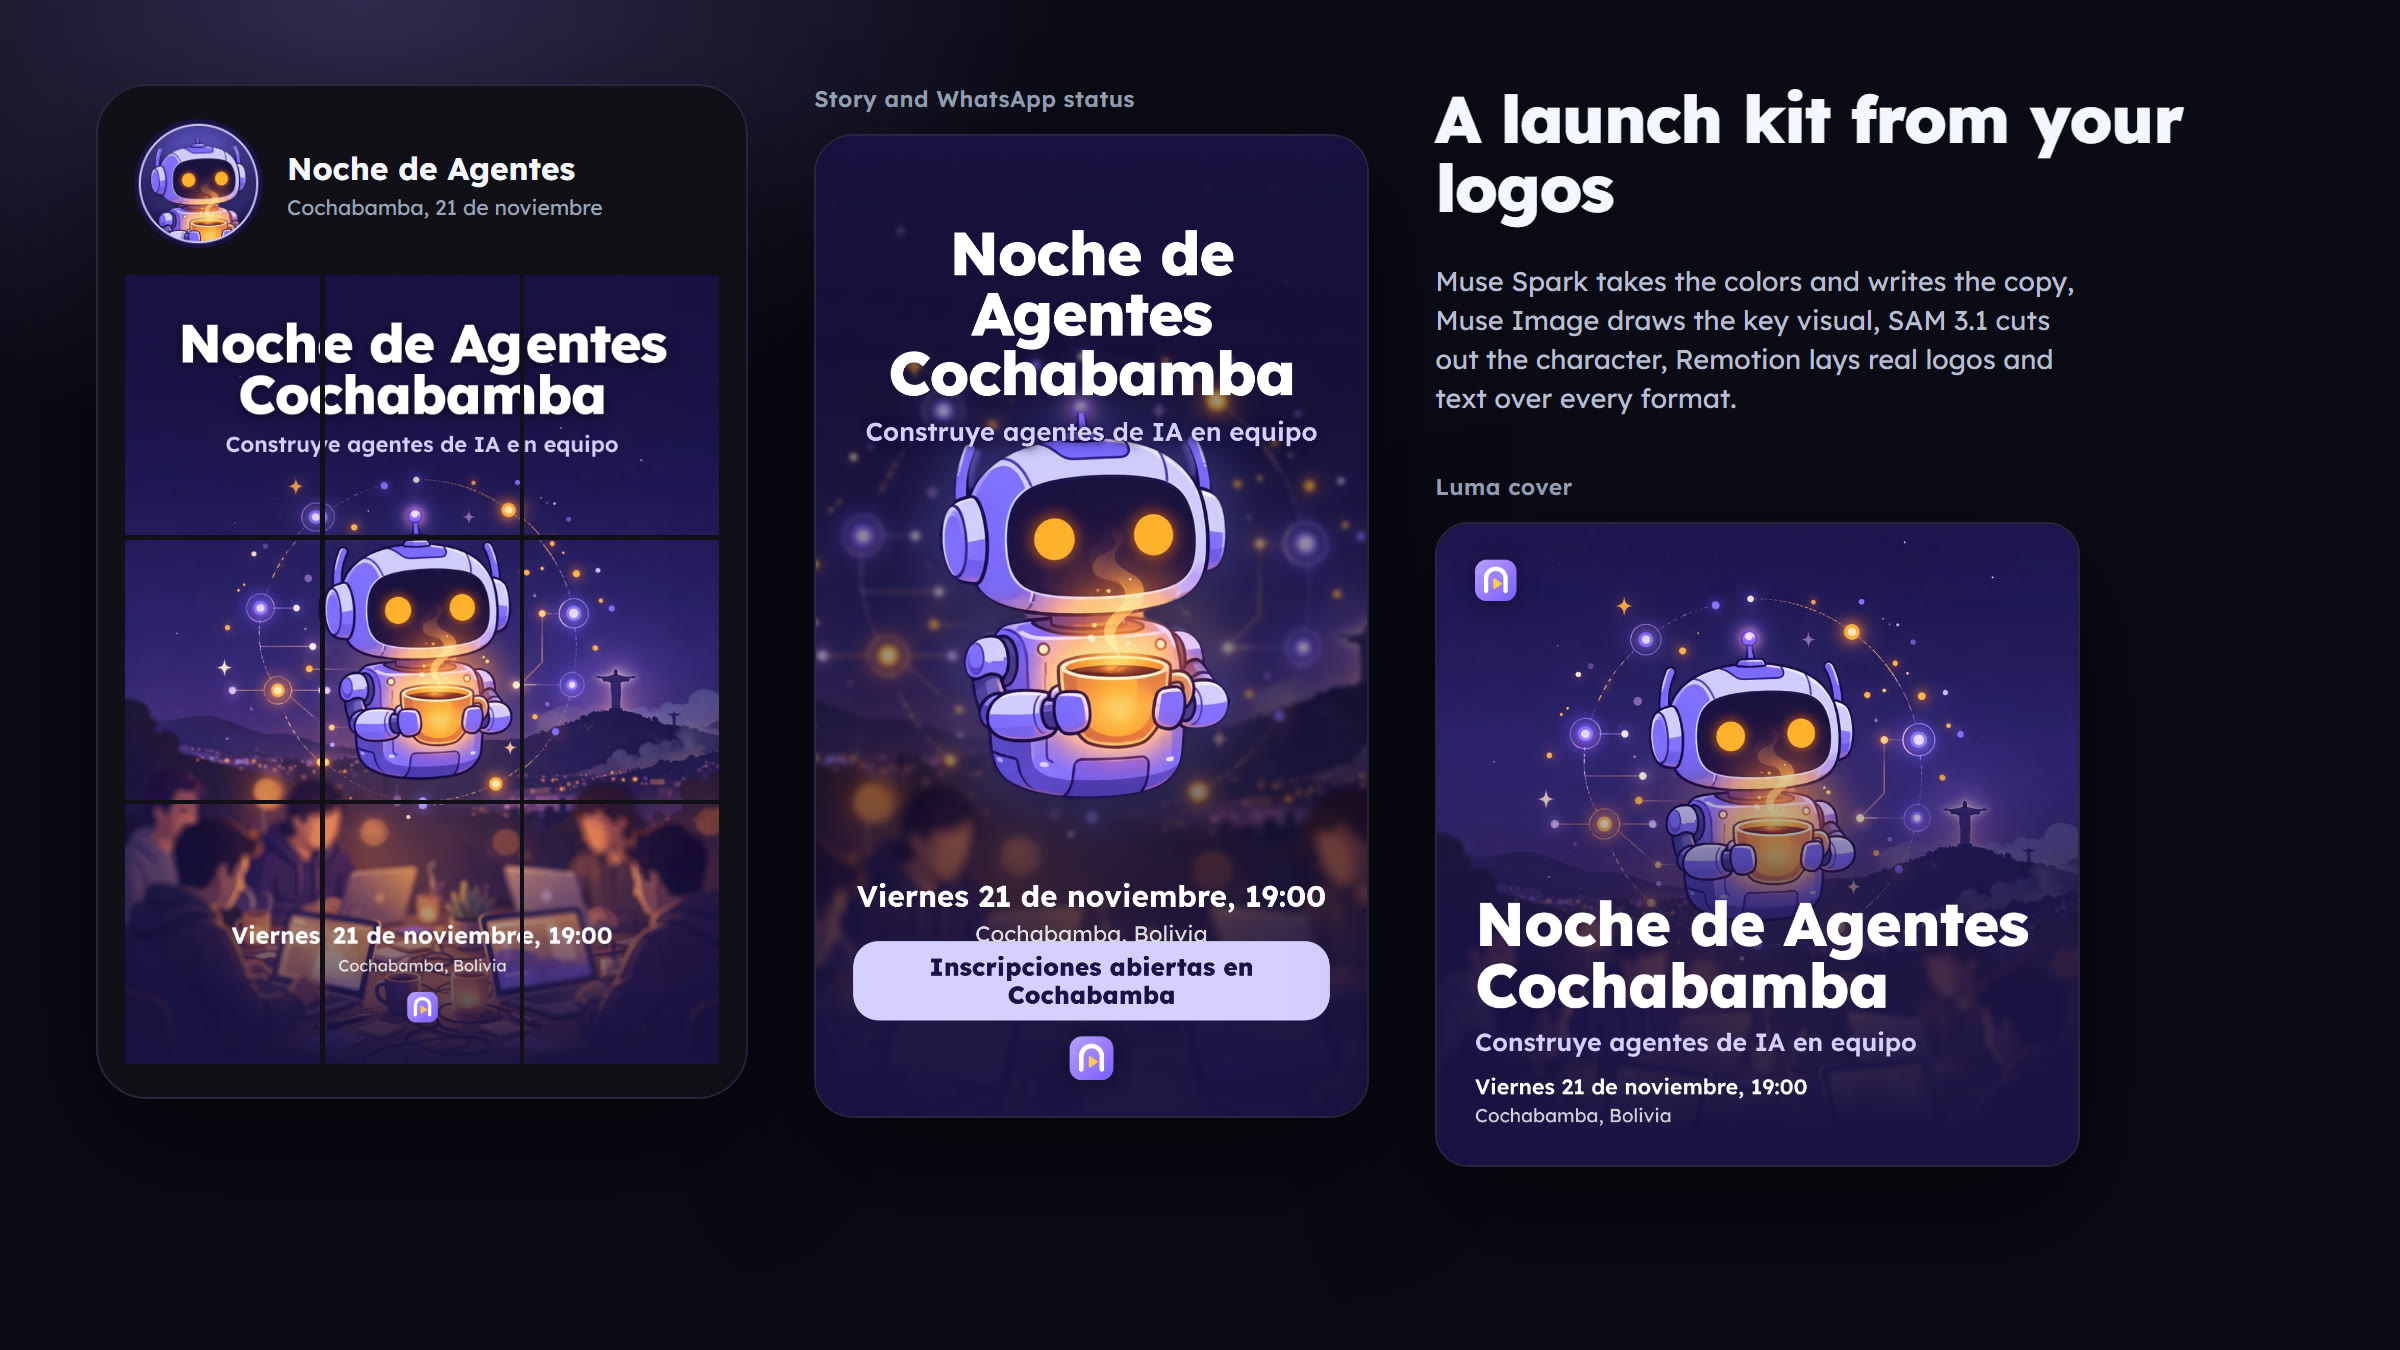
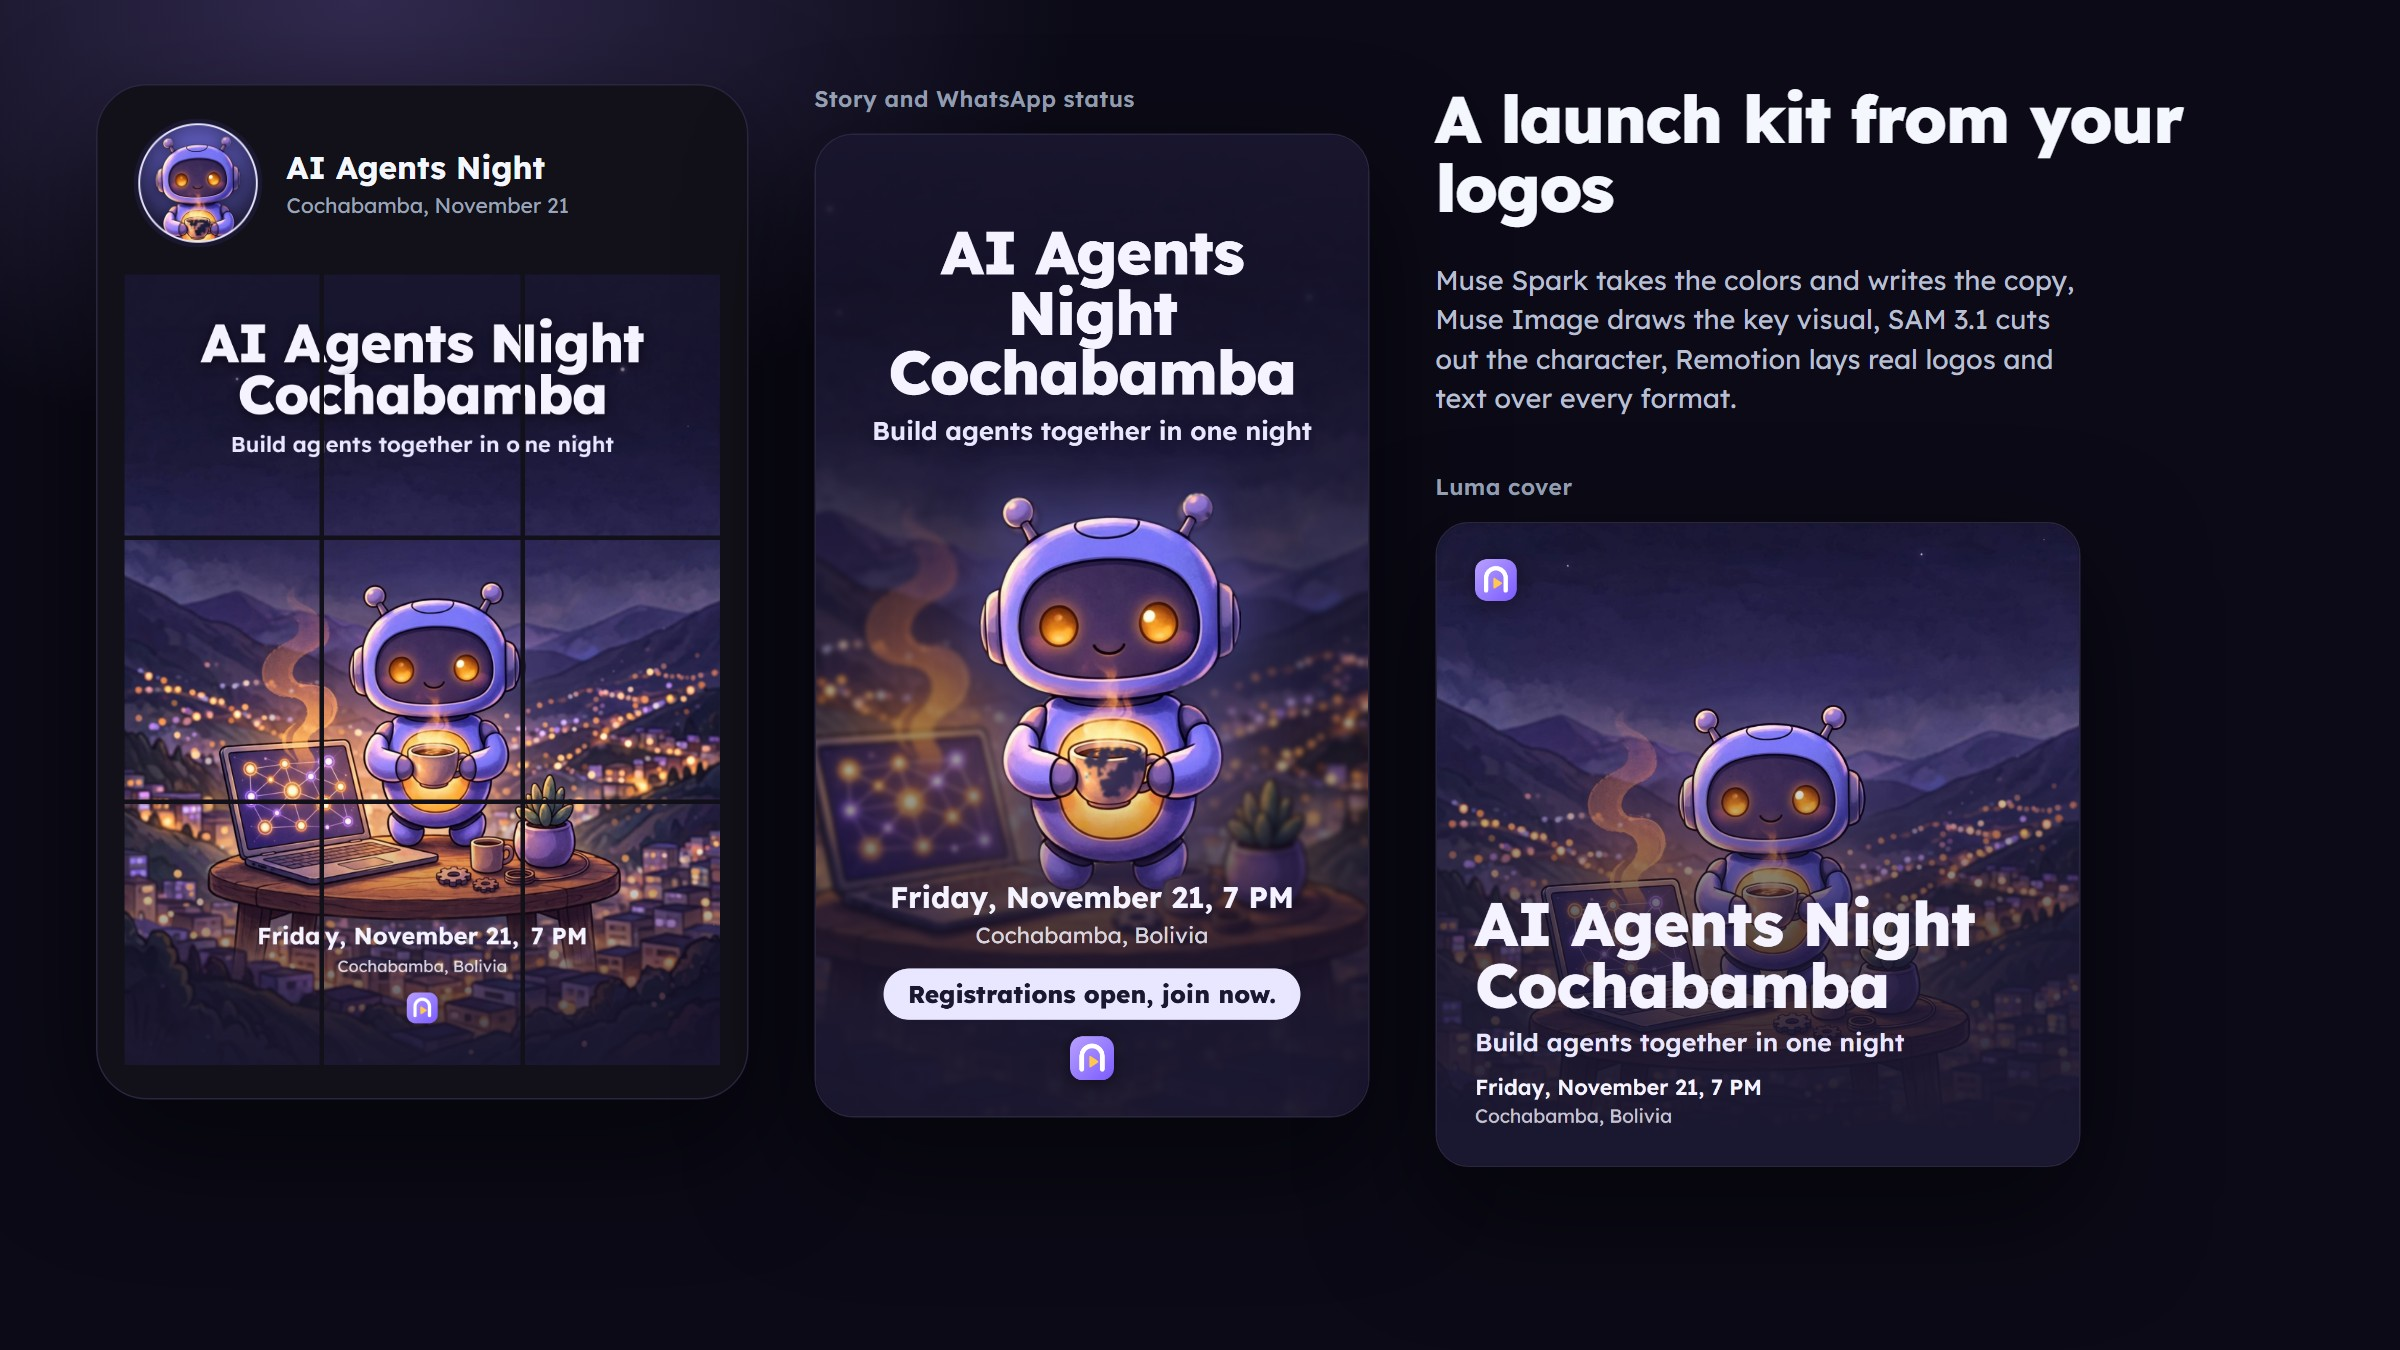
Captions keep the script's punctuation and end with the sentence; event story keeps the subject clear of the title
The event story stacks date, place and call to action so a two-line call to action
never covers the place. README and social preview now show an English event kit.

diff --git a/packages/video/src/events/EventKit.tsx b/packages/video/src/events/EventKit.tsx
@@ -127,10 +127,17 @@ export const EventStory: React.FC<EventProps> = (props) => {
   const dh = ih * k;
   const ox = (width - dw) / 2;
   const oy = (height - dh) / 2;
+  // A big subject would sit behind the event name: lower the picture until its top clears the title
+  const lift = box ? Math.max(0, height * 0.38 - (oy + box[1] * dh)) : 0;
   const pop = at(0.6);
   return (
     <AbsoluteFill style={{ background: p.bg, fontFamily, color: p.ink, overflow: "hidden" }}>
-      <AbsoluteFill style={{ transform: `scale(${zoom})` }}>
+      <AbsoluteFill
+        style={{
+          transform: `translateY(${lift}px) scale(${zoom})`,
+          maskImage: lift ? "linear-gradient(to bottom, transparent 0%, #000 16%)" : undefined,
+        }}
+      >
         <Visual src={asset(kit.key_visual)} style={{ filter: kit.cutout ? `blur(${4 * pop}px) brightness(${1 - 0.35 * pop})` : undefined }} />
         {kit.cutout && box && (
           <Img
@@ -153,17 +160,18 @@ export const EventStory: React.FC<EventProps> = (props) => {
         <div style={{ fontSize: 120, fontWeight: 800, lineHeight: 0.98, letterSpacing: -3 }}>{kit.name}</div>
         {spec && <div style={{ marginTop: 24, fontSize: 50, fontWeight: 600, color: p.accent, textShadow: `0 4px 24px ${p.bg}, 0 0 12px ${p.bg}` }}>{spec.tagline}</div>}
       </div>
-      <div style={{ position: "absolute", bottom: 330, left: 70, right: 70, textAlign: "center", opacity: at(2.4), transform: `translateY(${(1 - at(2.4)) * 40}px)` }}>
-        <div style={{ fontSize: 58, fontWeight: 700 }}>{kit.date}</div>
-        <div style={{ marginTop: 10, fontSize: 44, color: alpha(p.ink, 0.85) }}>{kit.place}</div>
-      </div>
-      {spec?.story_lines[line] && (
-        <div style={{ position: "absolute", bottom: 190, left: 0, right: 0, display: "flex", justifyContent: "center", opacity: at(3.4) }}>
-          <div style={{ transform: `scale(${at(3.4) * pulse})`, maxWidth: 900, textAlign: "center", background: p.accent, color: p.bg, fontSize: 46, fontWeight: 800, lineHeight: 1.15, padding: "22px 46px", borderRadius: 48 }}>
+      {/* Date, place and call to action stack from the bottom, so a call to action on two lines never covers the place */}
+      <div style={{ position: "absolute", bottom: 190, left: 70, right: 70, display: "flex", flexDirection: "column", alignItems: "center", textAlign: "center" }}>
+        <div style={{ opacity: at(2.4), transform: `translateY(${(1 - at(2.4)) * 40}px)` }}>
+          <div style={{ fontSize: 58, fontWeight: 700 }}>{kit.date}</div>
+          <div style={{ marginTop: 10, fontSize: 44, color: alpha(p.ink, 0.85) }}>{kit.place}</div>
+        </div>
+        {spec?.story_lines[line] && (
+          <div style={{ marginTop: 40, opacity: at(3.4), transform: `scale(${at(3.4) * pulse})`, maxWidth: 900, background: p.accent, color: p.bg, fontSize: 46, fontWeight: 800, lineHeight: 1.15, padding: "22px 46px", borderRadius: 48 }}>
             {spec.story_lines[line]}
           </div>
-        </div>
-      )}
+        )}
+      </div>
       <Logos kit={kit} asset={asset} height={86} style={{ position: "absolute", bottom: 70, left: 0, right: 0, justifyContent: "center", opacity: at(1.2) }} />
     </AbsoluteFill>
   );

diff --git a/packages/video/src/ui.tsx b/packages/video/src/ui.tsx
@@ -9,7 +9,7 @@ import {
   useCurrentFrame,
   useVideoConfig,
 } from "remotion";
-import { FPS } from "./timing";
+import { FPS, punctuate } from "./timing";
 import type { Theme, Word } from "./types";
 
 // Lexend was designed to make reading easier, a good default for students.
@@ -122,19 +122,21 @@ export const Backdrop: React.FC = () => {
 };
 
 /** Karaoke captions: the spoken word lights up. */
-export const Captions: React.FC<{ words: Word[]; offset: number }> = ({ words, offset }) => {
+export const Captions: React.FC<{ words: Word[]; text?: string; offset: number }> = ({ words: spoken, text, offset }) => {
   const frame = useCurrentFrame();
   const { theme } = useLesson();
   const { portrait, width } = useLayout();
   const t = frame / FPS - offset;
-  if (!words.length || t < -0.1) return null;
+  if (!spoken.length || t < -0.1) return null;
+  const words = text ? punctuate(spoken, text) : spoken;
 
-  // Pages of ~7 words, broken early at long pauses
+  // Pages of ~7 words, broken early at sentence ends and long pauses
   const pages: Word[][] = [];
   let cur: Word[] = [];
   words.forEach((w, i) => {
     const gap = i > 0 ? w.start - words[i - 1].end : 0;
-    if (cur.length >= (portrait ? 5 : 7) || (gap > 0.45 && cur.length)) {
+    const stop = i > 0 && /[.!?]["')]*$/.test(words[i - 1].text);
+    if (cur.length && (cur.length >= (portrait ? 5 : 7) || gap > 0.45 || stop)) {
       pages.push(cur);
       cur = [];
     }

diff --git a/packages/video/src/timing.test.ts b/packages/video/src/timing.test.ts
@@ -1,6 +1,6 @@
 import { describe, expect, it } from "vitest";
 import sample from "./sample.json";
-import { cues, estimate, FPS, LEAD, sceneTiming, THINK, timeline } from "./timing";
+import { cues, estimate, FPS, LEAD, punctuate, sceneTiming, THINK, timeline } from "./timing";
 import type { Lesson, Scene, Word } from "./types";
 
 const lesson = sample as unknown as Lesson;
@@ -61,5 +61,20 @@ describe("cues", () => {
   it("falls back to even spacing without word timings", () => {
     const t = cues(["a", "b"], undefined, 10);
     expect(t[0]).toBeLessThan(t[1]);
+  });
+});
+
+describe("punctuate", () => {
+  const at = (texts: string[]): Word[] => texts.map((text, i) => ({ text, start: i, end: i + 0.8 }));
+
+  it("gives the voice's words their punctuation back from the script", () => {
+    const words = punctuate(at(["Qué", "es", "la", "lava", "Roca", "que", "sale"]), "¿Qué es la lava? Roca que sale.");
+    expect(words.map((w) => w.text)).toEqual(["¿Qué", "es", "la", "lava?", "Roca", "que", "sale."]);
+    expect(words[3].start).toBe(3);
+  });
+
+  it("leaves words it cannot find untouched", () => {
+    const words = punctuate(at(["three", "rocks"]), "3 rocks.");
+    expect(words.map((w) => w.text)).toEqual(["three", "rocks."]);
   });
 });

diff --git a/packages/video/src/timing.ts b/packages/video/src/timing.ts
@@ -59,6 +59,26 @@ const norm = (s: string) =>
   s.toLowerCase().normalize("NFD").replace(/[̀-ͯ]/g, "").replace(/[^\p{L}\p{N}]/gu, "");
 
 /**
+ * Words from the voice come without punctuation: take each word's written form back from the script,
+ * in order, so captions can show "lava." and break where the sentence ends.
+ */
+export function punctuate(words: Word[], text: string): Word[] {
+  const tokens = text.split(/\s+/).filter(Boolean);
+  let cursor = 0;
+  return words.map((w) => {
+    const key = norm(w.text);
+    if (!key) return w;
+    for (let j = cursor; j < Math.min(tokens.length, cursor + 4); j++) {
+      if (norm(tokens[j]) === key) {
+        cursor = j + 1;
+        return { ...w, text: tokens[j] };
+      }
+    }
+    return w;
+  });
+}
+
+/**
  * When does the voice say each of these phrases? Returns seconds from the audio start.
  * Matches the first significant word of each phrase, in order; falls back to even spacing.
  */

diff --git a/packages/video/src/Lesson.tsx b/packages/video/src/Lesson.tsx
@@ -63,8 +63,8 @@ const SceneView: React.FC<TimelineItem> = ({ scene, timing }) => {
           <Audio src={asset(reveal.audio)} />
         </Sequence>
       )}
-      {captions && narr && <Captions words={narr.words} offset={LEAD} />}
-      {captions && reveal && <Captions words={reveal.words} offset={timing.revealStart} />}
+      {captions && narr && <Captions words={narr.words} text={narr.text} offset={LEAD} />}
+      {captions && reveal && <Captions words={reveal.words} text={reveal.text} offset={timing.revealStart} />}
     </AbsoluteFill>
   );
 };

diff --git a/engine/nemi/events.py b/engine/nemi/events.py
@@ -149,7 +149,8 @@ From the organizer's notes and their logos, design a launch kit that feels like 
   At most two emojis per post. Correct spelling with every accent of the language (sábado, not sabado).
   Plain punctuation: no em dashes, guillemets or middle dots.
 - grid_captions: 9 short captions for the 9 posts of an Instagram grid that forms one big picture.
-- story_lines: 3 lines of at most 5 words each (save the date, registrations open, last call)."""
+- story_lines: 3 lines of at most 5 words each (save the date, registrations open, last call), punctuated like
+  normal sentences ("Registrations open, join now")."""
 
 
 async def design(kit_id: str, logos: list[bytes]) -> None:
